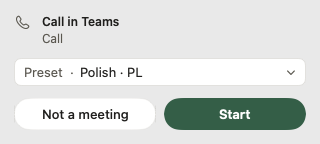
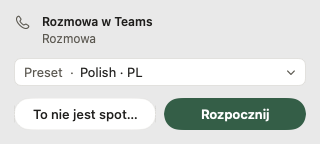
docs: README z polskim interfejsem, odsłuchem, poprawką i sugestiami (TASK-120)
Polski interfejs (PL/EN/Auto) zamiast „w planach”, odsłuch i ręczna
poprawka wypowiedzi, sugestie aliasów, test dostawców przy starcie.
Etykiety w README i mcp.md po polsku jak na zrzutach. Zrzuty z
scripts/snapshot.sh (dane syntetyczne, interfejs PL, jasny i ciemny).

diff --git a/README.md b/README.md
@@ -9,9 +9,9 @@
 
 Natywna aplikacja na macOS do notatek ze spotkań. Nagrywa rozmowę na Macu, sporządza transkrypcję po polsku, rozpoznaje rozmówców i przygotowuje notatkę. Możesz też zadawać pytania o jedno spotkanie lub całe archiwum i dyktować tekst w dowolnej aplikacji. **Do rozmowy nie dołącza żaden bot.**
 
-*English: a native macOS meeting-notes app that records system audio and microphone as two separate tracks, transcribes locally or via API, tells speakers apart, writes notes with a model you choose, answers questions about your meetings and does system-wide dictation. The app UI is currently English; Polish UI is planned.*
+*English: a native macOS meeting-notes app that records system audio and microphone as two separate tracks, transcribes locally or via API, tells speakers apart, writes notes with a model you choose, answers questions about your meetings and does system-wide dictation. You can play any transcript segment and fix it by hand. The app UI is in Polish and English (Auto follows macOS); read-only access for AI agents via MCP is optional.*
 
-Sam wybierasz język i decydujesz, czy przetwarzać dane lokalnie, czy przez API. Aplikacja nagrywa dźwięk na dwóch osobnych ścieżkach i jest wolnym oprogramowaniem (GPL-3.0). To jednoosobowy projekt w trakcie rozwoju (wersje alfa 0.1.x). Interfejs jest na razie po angielsku, a dokumentacja w repozytorium jest po polsku. Polski interfejs jest w planach.
+Sam wybierasz język i decydujesz, czy przetwarzać dane lokalnie, czy przez API. Aplikacja nagrywa dźwięk na dwóch osobnych ścieżkach i jest wolnym oprogramowaniem (GPL-3.0). To jednoosobowy projekt w trakcie rozwoju (wersje alfa 0.1.x). Interfejs jest po polsku i po angielsku, a dokumentacja w repozytorium jest po polsku.
 
 <table>
   <tr>
@@ -20,23 +20,23 @@ Sam wybierasz język i decydujesz, czy przetwarzać dane lokalnie, czy przez API
         <source media="(prefers-color-scheme: dark)" srcset="docs/readme/img/meetings-next-dark.png">
         <img src="docs/readme/img/meetings-next-light.png" alt="Lista spotkań z kartą najbliższego spotkania z kalendarza, folderami i polem do zadawania pytań">
       </picture>
-      <b>Najbliższe spotkanie.</b> Na karcie spotkania z kalendarza Apple wystarczy kliknąć „Record”. Na liście są foldery spotkań, a na dole pole „Ask about All meetings”.
+      <b>Najbliższe spotkanie.</b> Na karcie spotkania z kalendarza Apple wystarczy kliknąć „Nagraj”. Na liście są foldery spotkań, a na dole pole „Zapytaj: wszystkie spotkania”.
     </td>
     <td width="50%">
       <picture>
         <source media="(prefers-color-scheme: dark)" srcset="docs/readme/img/meeting-summary-dark.png">
-        <img src="docs/readme/img/meeting-summary-light.png" alt="Notatka ze spotkania z zakładkami „Summary”, „My notes” i „Transcript”">
+        <img src="docs/readme/img/meeting-summary-light.png" alt="Notatka ze spotkania z zakładkami „Podsumowanie”, „Moje notatki” i „Transkrypt”">
       </picture>
-      <b>Po otwarciu spotkania od razu widzisz notatkę.</b> Z podsumowania dowiesz się, kto odpowiada za każde zadanie i z czego ono wynika. „Copy” kopiuje notatkę, a „Improve…” pozwala wygenerować ją ponownie innym modelem.
+      <b>Po otwarciu spotkania od razu widzisz notatkę.</b> Z podsumowania dowiesz się, kto odpowiada za każde zadanie i z czego ono wynika. „Kopiuj” kopiuje notatkę, a „Popraw…” pozwala wygenerować ją ponownie innym modelem.
     </td>
   </tr>
   <tr>
     <td width="50%">
       <picture>
         <source media="(prefers-color-scheme: dark)" srcset="docs/readme/img/speakers-transcript-dark.png">
-        <img src="docs/readme/img/speakers-transcript-light.png" alt="Transkrypcja z rozmówcami oznaczonymi kolorami i listą uczestników „Who is this?”">
+        <img src="docs/readme/img/speakers-transcript-light.png" alt="Transkrypcja z rozmówcami oznaczonymi kolorami i listą uczestników „Kto to jest?”">
       </picture>
-      <b>Kto mówi?</b> Każdy rozmówca ma numer i kolor. Kliknij jego oznaczenie, by otworzyć listę „Who is this?” z uczestnikami z kalendarza i osobami z poprzednich spotkań.
+      <b>Kto mówi?</b> Każdy rozmówca ma numer i kolor. Kliknij jego oznaczenie, by otworzyć listę „Kto to jest?” z uczestnikami z kalendarza i osobami z poprzednich spotkań.
     </td>
     <td width="50%">
       <picture>
@@ -44,6 +44,22 @@ Sam wybierasz język i decydujesz, czy przetwarzać dane lokalnie, czy przez API
         <img src="docs/readme/img/speakers-summary-light.png" alt="Notatka z imionami rozmówców, które można kliknąć, w tych samych kolorach co w transkrypcji">
       </picture>
       <b>Imiona także w notatce.</b> W notatce widać imiona przypisane rozmówcom. Gdy zmienisz imię, zmiana od razu pojawi się w notatce, kopii i archiwum, bez ponownego generowania notatki.
+    </td>
+  </tr>
+  <tr>
+    <td width="50%">
+      <picture>
+        <source media="(prefers-color-scheme: dark)" srcset="docs/readme/img/transcript-edit-dark.png">
+        <img src="docs/readme/img/transcript-edit-light.png" alt="Transkrypt z otwartym edytorem wypowiedzi i przyciskami „Anuluj” i „Zapisz” oraz wypowiedzią oznaczoną „Edytowano”">
+      </picture>
+      <b>Odsłuch i ręczna poprawka.</b> Najedź na wypowiedź i kliknij ▶, by odsłuchać dokładnie ten fragment nagrania. Kliknięcie ołówka otwiera edytor. Poprawiona wypowiedź ma oznaczenie „Edytowano”, a surowy zapis pozostaje bez zmian.
+    </td>
+    <td width="50%">
+      <picture>
+        <source media="(prefers-color-scheme: dark)" srcset="docs/readme/img/dictionary-suggestions-dark.png">
+        <img src="docs/readme/img/dictionary-suggestions-light.png" alt="Słownik z kartą „Sugestie” i przyciskami „Ignoruj” i „Dodaj”">
+      </picture>
+      <b>Sugestie do słownika.</b> Jeśli korekta kilka razy zamienia to samo słowo na termin ze słownika, aplikacja proponuje dodać je jako alias. Kliknij „Dodaj” albo „Ignoruj”. Odrzucone sugestie nie wracają.
     </td>
   </tr>
 </table>
@@ -57,28 +73,30 @@ Gotowe narzędzia dobrze radzą sobie z angielskim. Język polski zwykle wymaga 
 - **Wybór języka.** Preset określa język oraz modele do transkrypcji, korekty i tworzenia notatki, dzięki czemu wszystkie etapy korzystają z jednego ustawienia języka. Gdy zaczynasz nagrywać, widzisz oznaczenie „Polish · PL”.
 - **Usuwanie polskich przerywników.** Korekta usuwa z transkrypcji „yyy”, „mhm” i podobne przerywniki. Surowy zapis pozostaje bez zmian.
 - **Modele obsługujące polski.** Parakeet TDT v3 (483 MB) i Parakeet Ultra (632 MB) działają w całości na Macu, bez dostępu do sieci.
-- **Nazwy własne i odmiana.** Do słownika możesz dodać własne terminy i aliasy. Pomaga poprawnie zapisywać nazwy także w odmienionych formach. Aplikacja uwzględnia terminy ze słownika i uczestników z kalendarza w poleceniach do korekty i tworzenia notatki.
-- **Sprawdzanie liczb.** Korekta ma zachować sens wypowiedzi. W notatce pojawia się ostrzeżenie, jeśli zawiera ona liczbę, której nie było w transkrypcji.
+- **Nazwy własne i odmiana.** Do słownika możesz dodać własne terminy i aliasy. Pomaga poprawnie zapisywać nazwy także w odmienionych formach. Aplikacja uwzględnia terminy ze słownika i uczestników z kalendarza w poleceniach do korekty i tworzenia notatki. Gdy model korekty kilka razy poprawia ten sam błąd, aplikacja proponuje nowy alias.
+- **Sprawdzanie liczb.** Korekta ma zachować sens wypowiedzi. W notatce pojawia się ostrzeżenie, jeśli zawiera liczbę, której nie było w transkrypcji.
 
 ## Jak to działa
 
 1. **Nagrywasz.** Aplikacja zapisuje dźwięk systemowy i dźwięk z mikrofonu w osobnych plikach, bo po zmiksowaniu obu ścieżek nie da się odzyskać czystego głosu. Każdą ścieżkę możesz wyciszyć jednym kliknięciem. Gdy wyciszysz mikrofon w Teams, aplikacja wyciszy również jego ścieżkę w nagraniu.
-2. **Transkrybujesz.** Możesz użyć lokalnego modelu Parakeet lub skorzystać z API (OpenRouter, ElevenLabs Scribe v2, oMLX z modelem Whisper lub Qwen3-ASR albo dowolny endpoint zgodny z OpenAI). Przed transkrypcją aplikacja usuwa echo głośników ze ścieżki mikrofonu, dzięki czemu nie przypisuje głosów innych rozmówców do „Me”. Jeśli transkrypcja się przerwie, aplikacja wznawia ją od miejsca przerwania.
+2. **Transkrybujesz.** Możesz użyć lokalnego modelu Parakeet lub skorzystać z API (OpenRouter, ElevenLabs Scribe v2, oMLX z modelem Whisper lub Qwen3-ASR albo dowolnego punktu końcowego zgodnego z OpenAI). Przed transkrypcją aplikacja usuwa echo głośników ze ścieżki mikrofonu, dzięki czemu nie przypisuje głosów innych rozmówców do „Ja”. Jeśli transkrypcja się przerwie, aplikacja wznawia ją od miejsca przerwania.
 3. **Rozpoznajesz rozmówców.** Scribe v2 sam rozróżnia rozmówców. Na Macu robi to lokalny model, a w chmurze możesz też użyć Mistrala. Imiona przypisujesz rozmówcom jednym kliknięciem.
-4. **Poprawiasz.** Model usuwa przerywniki, a słownik poprawia nazwy własne. Aplikacja dzieli transkrypcje długich spotkań na fragmenty, które mieszczą się w oknie kontekstowym modelu. Opcja „Improve…” pozwala powtórzyć korektę innym modelem.
-5. **Dostajesz notatkę.** Aplikacja tworzy ją na podstawie szablonu z własnymi sekcjami i kontekstu spotkania. Model możesz wybrać osobno dla każdego spotkania. W „Settings” możesz zmienić polecenia do korekty i tworzenia notatki.
-6. **Pytasz.** W „Ask” możesz zadawać pytania o jedno spotkanie, folder lub całe archiwum. Odpowiedzi zawierają odnośniki do źródeł. Historię rozmów znajdziesz w „Past chats”.
+4. **Poprawiasz.** Model usuwa przerywniki, a słownik poprawia nazwy własne. Aplikacja dzieli transkrypcje długich spotkań na fragmenty, które mieszczą się w oknie kontekstowym modelu. Opcja „Popraw…” pozwala powtórzyć korektę innym modelem. W transkrypcie możesz odsłuchać każdą wypowiedź i poprawić ją ręcznie. Aplikacja uwzględnia ręczne poprawki w kopii, wyszukiwaniu i ponownie wygenerowanej notatce.
+5. **Dostajesz notatkę.** Aplikacja tworzy ją na podstawie szablonu z własnymi sekcjami i kontekstu spotkania. Model możesz wybrać osobno dla każdego spotkania. W sekcji „Ustawienia” możesz zmienić polecenia do korekty i tworzenia notatki.
+6. **Pytasz.** W polu „Zapytaj” możesz zadawać pytania o jedno spotkanie, folder lub całe archiwum. Odpowiedzi zawierają odnośniki do źródeł. Historię rozmów otworzysz przyciskiem „Poprzednie rozmowy”.
 
-Gdy kończy się rozmowa w Teams, w panelu nagrywania pojawia się pytanie „Meeting ended?”. Po 5 sekundach bez odpowiedzi aplikacja kończy nagranie. „Continue” przerywa odliczanie.
+Gdy kończy się rozmowa w Teams, w panelu nagrywania pojawia się pytanie „Spotkanie się skończyło?”. Po 5 sekundach bez odpowiedzi aplikacja kończy nagranie. „Kontynuuj” przerywa odliczanie.
 
 **Dyktowanie.** Aby dyktować tekst do dowolnej aplikacji, przytrzymaj lub naciśnij klawisz przypisany do skrótu globalnego (domyślnie Fn). Dyktowanie korzysta z tego samego modelu transkrypcji, słownika i filtra przerywników. Korekta jest opcjonalna, a historia zawiera wyłącznie tekst.
+
+**Język interfejsu.** Przycisk z globusem obok przełącznika jasnego i ciemnego motywu pozwala wybrać „Polski”, „English” lub „Automatycznie” (jak w macOS). Zmiana działa po ponownym uruchomieniu aplikacji.
 
 <table>
   <tr>
     <td width="50%">
       <picture>
         <source media="(prefers-color-scheme: dark)" srcset="docs/readme/img/pill-expanded-dark.png">
-        <img src="docs/readme/img/pill-expanded-light.png" alt="Panel nagrywania z poziomami dźwięku i przyciskami „Mute” dla dwóch ścieżek">
+        <img src="docs/readme/img/pill-expanded-light.png" alt="Panel nagrywania z poziomami dźwięku i przyciskami „Wycisz” dla dwóch ścieżek">
       </picture>
       <b>Panel nagrywania.</b> Panel pokazuje nazwę urządzenia oraz osobno poziom dźwięku systemowego i mikrofonu. Każdą ścieżkę możesz wyciszyć, a mikrofon możesz zmienić w trakcie nagrania.
     </td>
@@ -103,7 +121,7 @@ Gdy kończy się rozmowa w Teams, w panelu nagrywania pojawia się pytanie „Me
         <source media="(prefers-color-scheme: dark)" srcset="docs/readme/img/settings-on-this-mac-dark.png">
         <img src="docs/readme/img/settings-on-this-mac-light.png" alt="Ustawienia z modelami Parakeet na Macu i listą dostawców">
       </picture>
-      <b>Modele lokalne i w chmurze.</b> Do wyboru masz Parakeet na Macu, OpenRouter, ElevenLabs, Mistral, Ollama, llama.cpp, oMLX i dowolny endpoint zgodny z OpenAI. Eksperymentalnie możesz też skorzystać z Codexa i Claude Code po zalogowaniu się na własne konto.
+      <b>Modele lokalne i w chmurze.</b> Do wyboru masz Parakeet na Macu, OpenRouter, ElevenLabs, Mistral, Ollama, llama.cpp, oMLX i własny punkt końcowy zgodny z OpenAI. Eksperymentalnie możesz też skorzystać z Codexa i Claude Code po zalogowaniu się na własne konto.
     </td>
   </tr>
 </table>
@@ -119,29 +137,29 @@ Gdy kończy się rozmowa w Teams, w panelu nagrywania pojawia się pytanie „Me
 
 Yascribe ma serwer MCP na stdio, więc Claude Code, Codex, OpenCode, Hermes i pi mogą czytać Twoje spotkania:
 listę z wyszukiwaniem, transkrypt i notatkę, a także całe spotkanie jako markdown. Serwer tylko czyta i nic
-nie wychodzi z niego bez Twojej zgody: włącz ją w **Settings → Agent access (MCP)**. Instrukcja podłączenia
+nie wychodzi z niego bez Twojej zgody: włącz dostęp w **Ustawienia → Dostęp agentów (MCP)**. Instrukcja podłączenia
 dla każdego klienta: [docs/readme/mcp.md](docs/readme/mcp.md).
 
 ## Instalacja
 
 1. Pobierz `Yascribe-<wersja>.zip` z [Releases](https://github.com/sharezz1/yascribe/releases/latest), rozpakuj archiwum i przeciągnij `Yascribe.app` do `/Applications`.
-2. Aplikacja ma podpis z certyfikatem Apple Development. **Nie ma jeszcze notaryzacji**, więc przy pierwszym uruchomieniu macOS poprosi o zgodę (Ustawienia systemowe → Prywatność i ochrona → „Otwórz mimo to”). Notaryzacja jest w planach.
-3. Przy pierwszym nagraniu udziel dostępu do mikrofonu, dźwięku systemowego i opcjonalnie do kalendarza. Synchronizacja wyciszenia z Teams i dyktowanie wymagają też uprawnienia „Accessibility”, a skrót do dyktowania dodatkowo uprawnienia „Input Monitoring”.
-4. Aktualizacje sprawdzisz przez Yascribe → „Check for Updates…” lub w menu na pasku. Aplikacja instaluje aktualizację dopiero po kliknięciu i nigdy nie przerywa trwającego nagrania.
+2. Aplikacja jest podpisana certyfikatem Apple Development. **Nie ma jeszcze notaryzacji**, więc przy pierwszym uruchomieniu macOS poprosi o zgodę (Ustawienia systemowe → Prywatność i ochrona → „Otwórz mimo to”). Notaryzacja jest w planach.
+3. Przy pierwszym nagraniu udziel dostępu do mikrofonu, dźwięku systemowego i opcjonalnie do kalendarza. Synchronizacja wyciszenia z Teams i dyktowanie wymagają też uprawnienia „Dostępność”, a skrót do dyktowania dodatkowo uprawnienia „Monitorowanie wprowadzania”.
+4. Aktualizacje sprawdzisz w menu Yascribe → „Sprawdź uaktualnienia…” lub w menu na pasku. Aplikacja instaluje aktualizację dopiero po kliknięciu i nigdy nie przerywa trwającego nagrania.
+5. Po każdym uruchomieniu aplikacja sprawdza połączenie ze skonfigurowanymi dostawcami. Pomija własne punkty końcowe, żeby nie uruchamiać płatnego serwera.
 
 Aplikacja wymaga macOS 27.
 
 ## Co dalej
 
-**Już działa.** Nagrywanie na dwóch ścieżkach z wyciszaniem, wykrywaniem końca spotkania i zmianą mikrofonu w trakcie nagrania · usuwanie echa głośników ze ścieżki mikrofonu · transkrypcja lokalna (Parakeet v3, Parakeet Ultra) i przez API · rozpoznawanie rozmówców i wyświetlanie ich imion w transkrypcji i notatce · korekta z filtrem przerywników i własnymi poleceniami · słownik z obsługą odmiany, importu i eksportu · notatki z szablonów i wybór modelu dla każdego spotkania · pytania w „Ask” o spotkanie, folder lub archiwum · dyktowanie do dowolnej aplikacji · modele lokalne (Ollama, llama.cpp, oMLX, własny endpoint) i agenci CLI (Codex, Claude Code) · nagrywanie z użyciem słuchawek Bluetooth · kalendarz Apple i proponowanie nagrania po wykryciu rozmowy w Teams · foldery, krótki opis spotkania („Overview”) oraz archiwum z wyszukiwarką i ustawieniem czasu przechowywania nagrań · jasny i ciemny motyw · aktualizacje jednym kliknięciem · narzędzie `yascribe-cli` do transkrypcji, korekty, tworzenia notatek i rozpoznawania rozmówców w terminalu · serwer MCP dla agentów AI (lista spotkań, transkrypt, notatka i eksport do markdown).
+**Już działa.** Nagrywanie na dwóch ścieżkach z wyciszaniem, wykrywaniem końca spotkania i zmianą mikrofonu w trakcie nagrania · usuwanie echa głośników ze ścieżki mikrofonu · transkrypcja lokalna (Parakeet v3, Parakeet Ultra) i przez API · odsłuch wypowiedzi i ręczna poprawka transkryptu · rozpoznawanie rozmówców i wyświetlanie ich imion w transkrypcji i notatce · korekta z filtrem przerywników i własnymi poleceniami · słownik z obsługą odmiany, importu i eksportu oraz sugestiami aliasów z korekty · notatki z szablonów i wybór modelu dla każdego spotkania · pytania w polu „Zapytaj” o spotkanie, folder lub archiwum · dyktowanie do dowolnej aplikacji · modele lokalne (Ollama, llama.cpp, oMLX, własny punkt końcowy) i agenci CLI (Codex, Claude Code) · nagrywanie z użyciem słuchawek Bluetooth · kalendarz Apple i proponowanie nagrania po wykryciu rozmowy w Teams · foldery, krótki opis spotkania („W skrócie”) oraz archiwum z wyszukiwarką i ustawieniem czasu przechowywania nagrań · interfejs po polsku i po angielsku · jasny i ciemny motyw · aktualizacje jednym kliknięciem · narzędzie `yascribe-cli` do transkrypcji, korekty, tworzenia notatek i rozpoznawania rozmówców w terminalu · serwer MCP dla agentów AI (lista spotkań, transkrypt, notatka i eksport do markdown).
 
 **W kolejce**
 
-- polski interfejs (aplikacja już rozumie polski, a jej interfejs jest na razie po angielsku),
 - dodawanie aliasu do słownika przez kliknięcie słowa w transkrypcji oraz podpowiadanie słów lokalnemu modelowi (word boosting) po pomiarach,
 - transkrypcja na żywo i możliwość wznowienia nagrywania w ramach tej samej notatki,
 - kolejne lokalne modele transkrypcji,
-- „Record now” w menu na pasku.
+- przycisk nagrywania w menu na pasku.
 
 **Pomysły bez terminu.** Notaryzacja i Developer ID · Google Calendar, Outlook, Slack.
 

diff --git a/docs/readme/mcp.md b/docs/readme/mcp.md
@@ -11,8 +11,8 @@ Nie uruchamia też żadnych modeli ani podsumowań — to robi wyłącznie aplik
 
 Domyślnie serwer nie wydaje żadnych danych. Żeby go włączyć:
 
-1. Otwórz Yascribe → **Settings** → **Agent access (MCP)**.
-2. Włącz **Allow AI agents to read meetings** i kliknij **Save**.
+1. Otwórz Yascribe → **Ustawienia** → **Dostęp agentów (MCP)**. W angielskim interfejsie: **Settings** → **Agent access (MCP)**.
+2. Włącz **Zezwól agentom AI na odczyt spotkań** i kliknij **Zapisz**.
 
 Przełącznik zapisuje zgodę w `settings.json` tego katalogu danych, z którego czyta serwer.
 Wyłączenie (albo usunięcie lub uszkodzenie `settings.json`) natychmiast zamyka dostęp: każde narzędzie
@@ -140,7 +140,7 @@ dokładnie to, co daje przycisk „Copy” w aplikacji. Gdy jest więcej linii, 
 
 ## Rozwiązywanie problemów
 
-- **„Agent access is off…”** — włącz przełącznik w Settings i zapisz.
+- **„Agent access is off…”** — włącz przełącznik w Ustawieniach i zapisz.
 - **Pusto, choć masz spotkania** — sprawdź, czy klient uruchamia serwer z tym samym `YASCRIBE_DATA_DIR`
   (albo bez niego, jeśli używasz zwykłego katalogu).
 - **Klient nie widzi narzędzi** — uruchom ręcznie i sprawdź, czy odpowiada:
